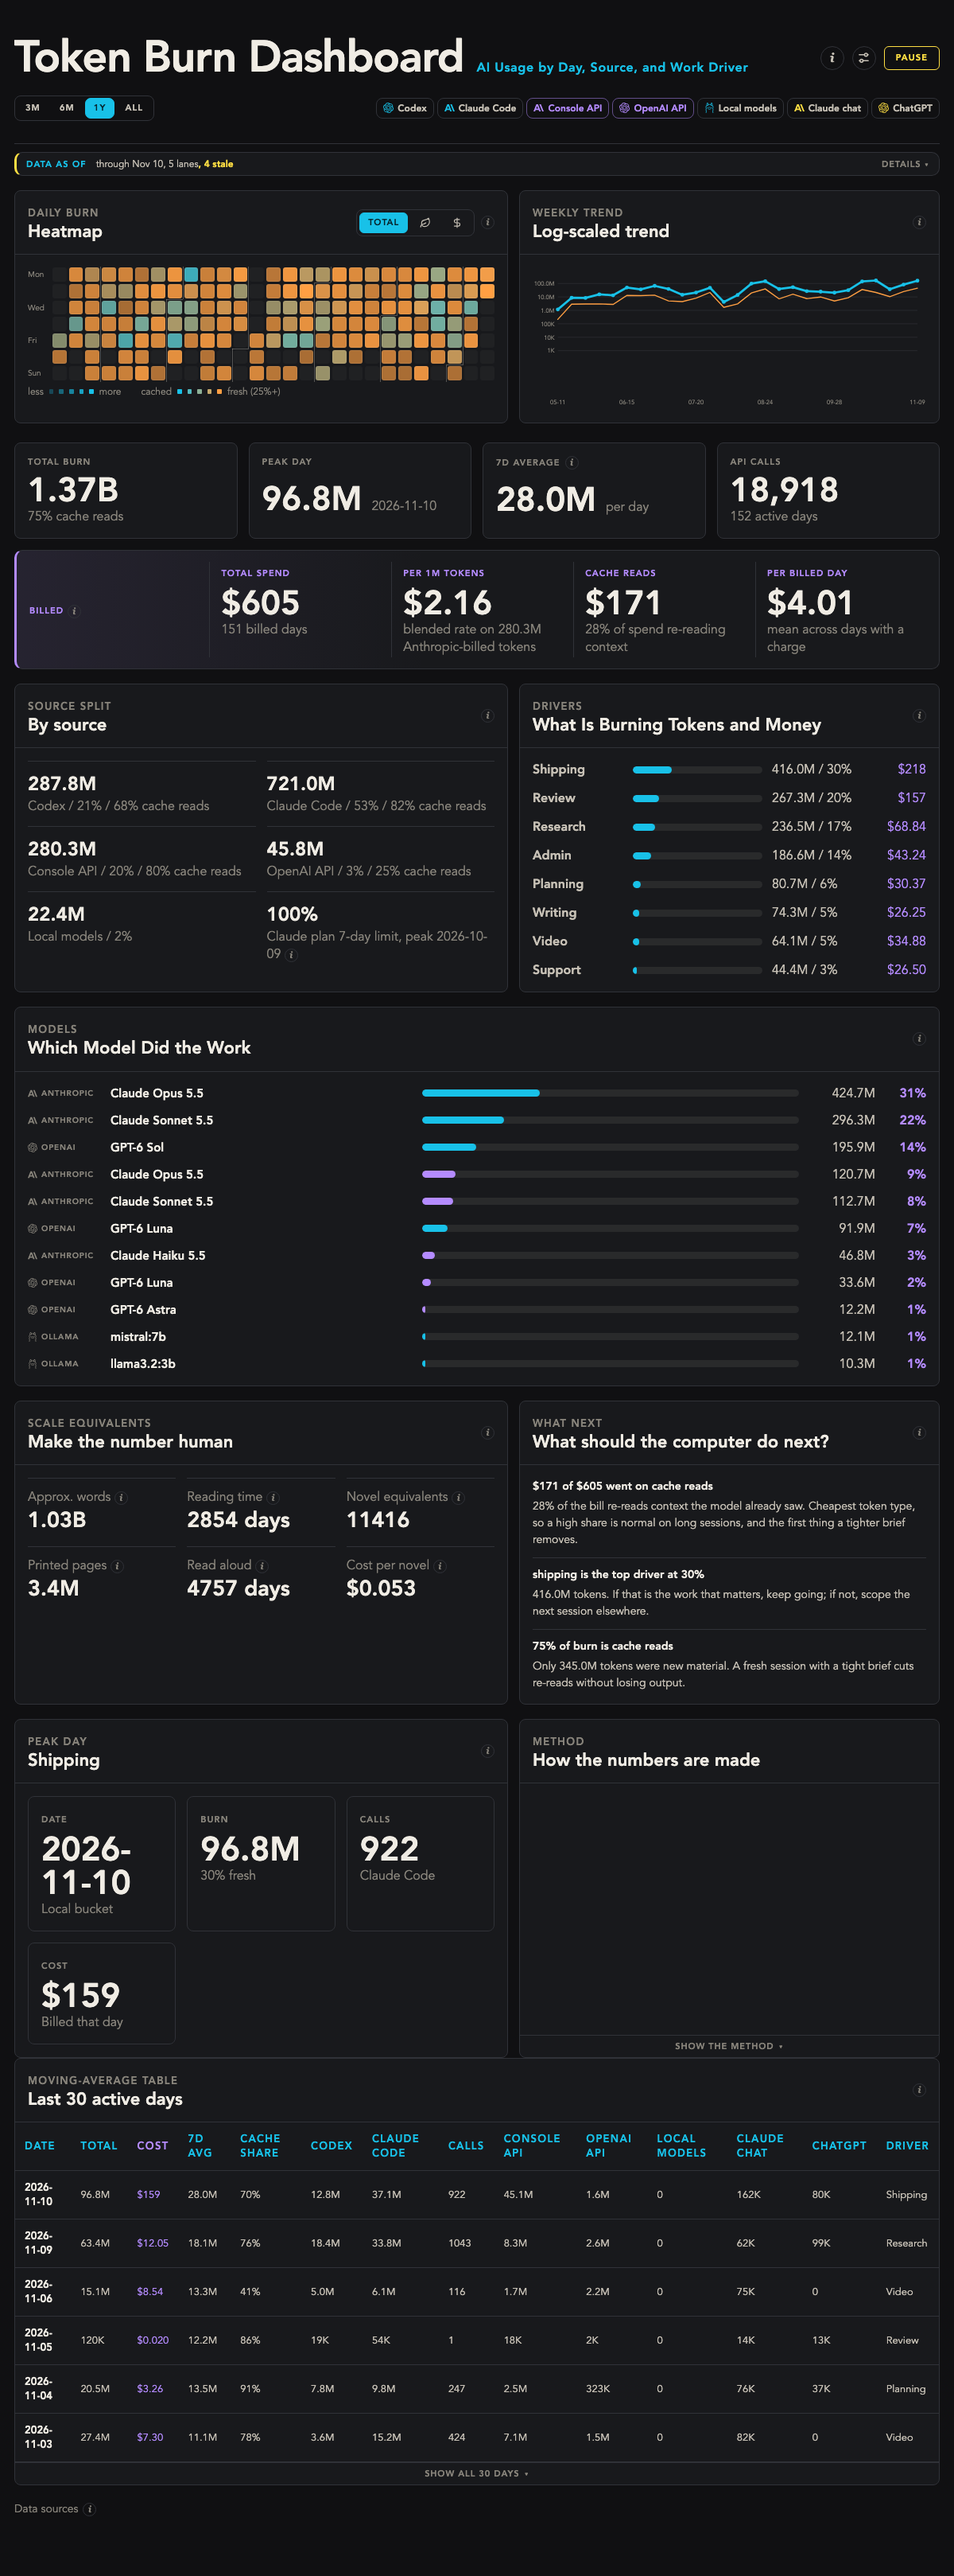
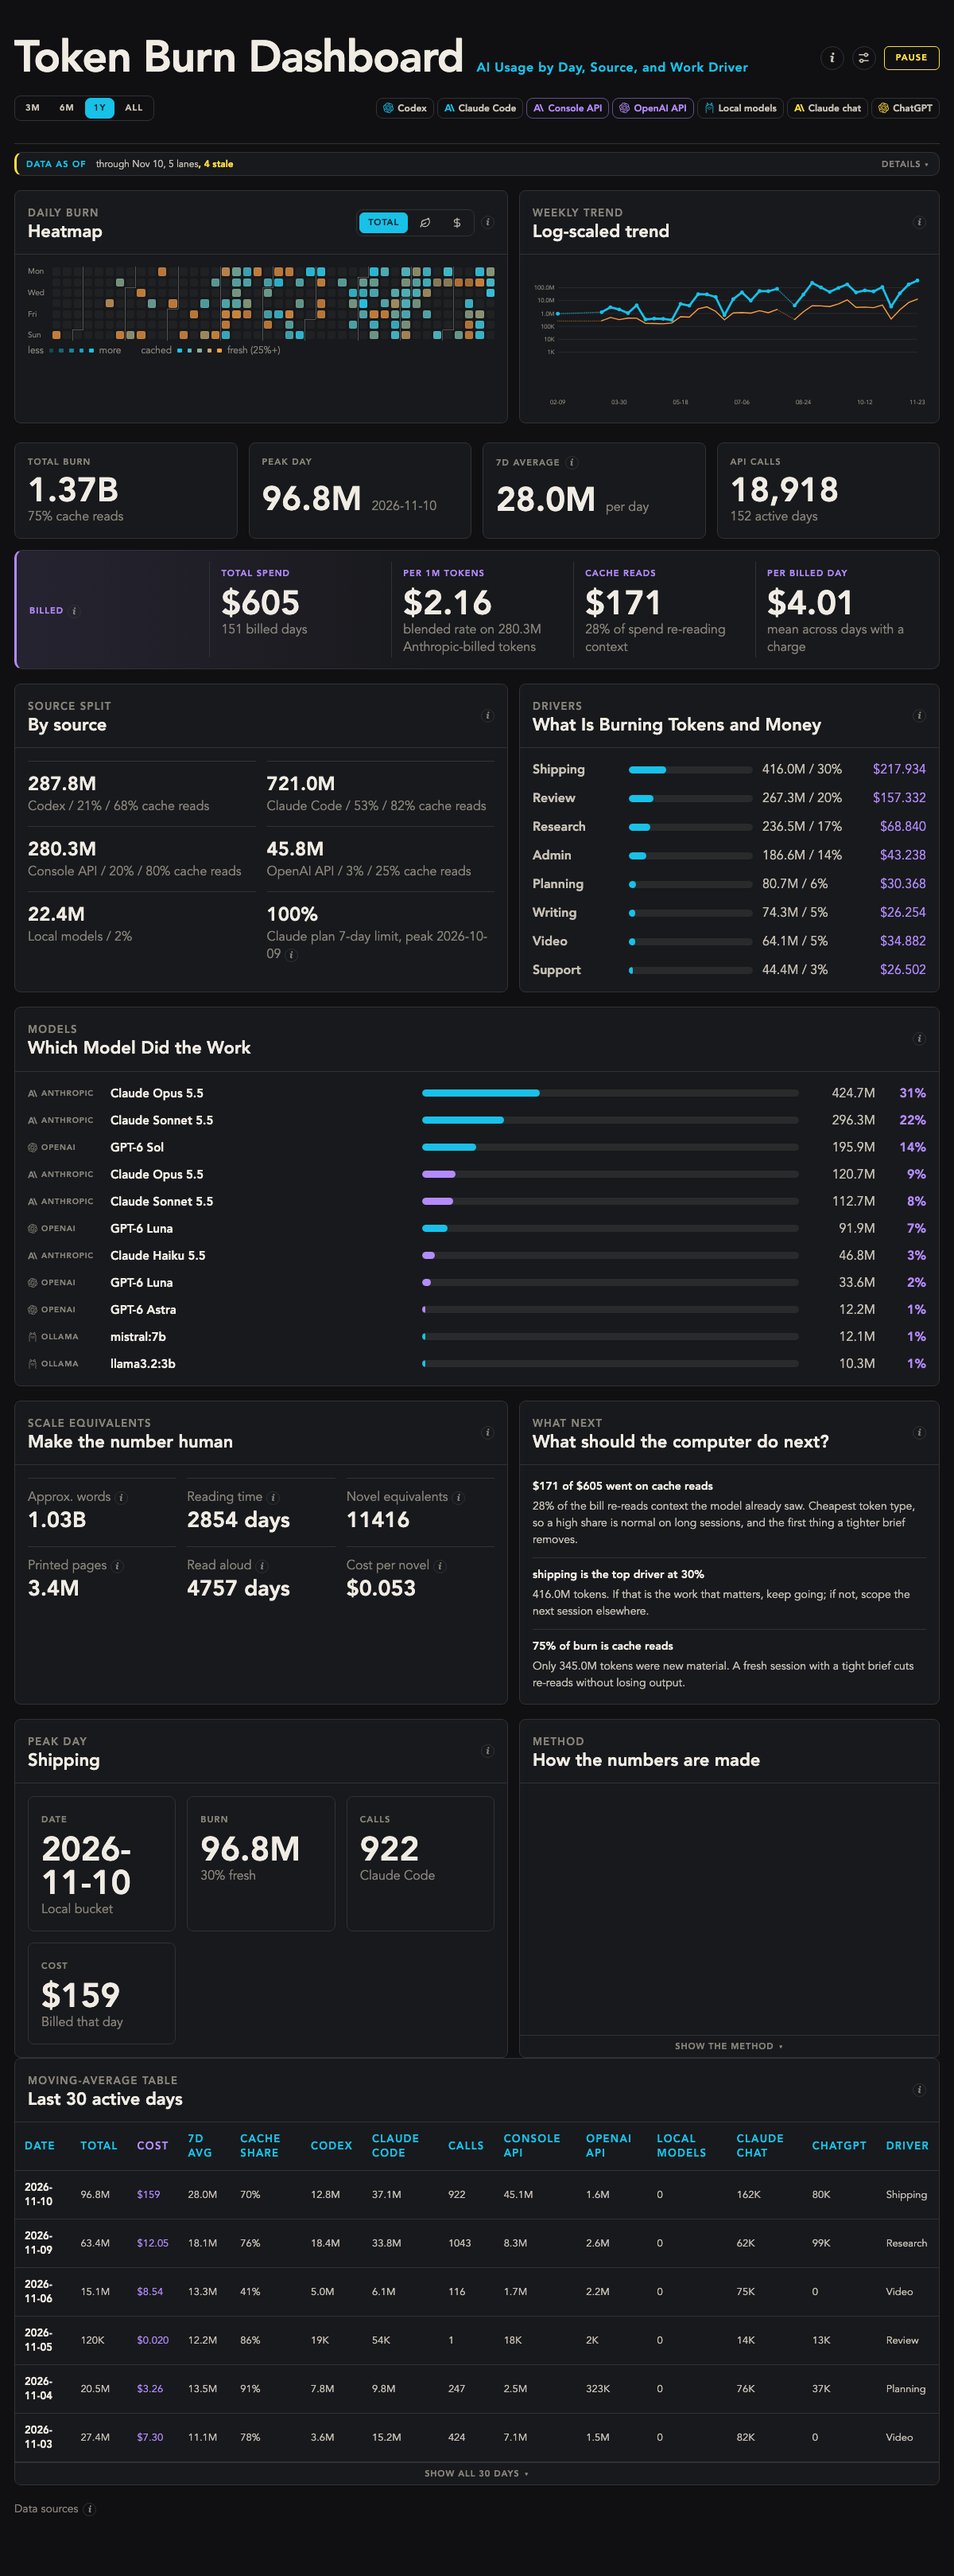
Drivers cost to 3 decimals; preview charts from scaled real history
- Drivers panel: every row's cost shows exactly 3 decimals ($0.000 when a
  driver has no billed cost), so the column lines up digit for digit.
- Desktop preview: the heatmap and weekly trend show the author's real usage
  scaled by 1.16; every other panel still shows the fictional sample. No real
  data is committed.

diff --git a/dashboard/app/_components/breakdowns.tsx b/dashboard/app/_components/breakdowns.tsx
@@ -14,7 +14,7 @@ import {
   titleCase,
 } from "../../lib/burn-data";
 import { driverTotals } from "../../lib/insights";
-import { formatPercent, formatTokens, formatUsd } from "../../lib/token-math";
+import { formatPercent, formatTokens, formatUsdFixed } from "../../lib/token-math";
 import { InfoTip } from "./info-tip";
 import { ExpandRow, Panel, PanelHeader, VendorMark } from "./panel";
 
@@ -89,7 +89,7 @@ export function DriversPanel({ rows, showCost }: { rows: BurnRow[]; showCost: bo
             <span className="driverValue">
               {formatTokens(driver.value)} / {driver.share}%
             </span>
-            {showCost && <span className="driverCost">{driver.cost > 0 ? formatUsd(driver.cost) : "—"}</span>}
+            {showCost && <span className="driverCost">{formatUsdFixed(driver.cost)}</span>}
           </div>
         ))}
       </div>

diff --git a/dashboard/lib/token-math.ts b/dashboard/lib/token-math.ts
@@ -27,6 +27,12 @@ export function formatUsd(value: number) {
   return `$${value.toFixed(3)}`;
 }
 
+/** Dollars at a fixed precision, for columns that should line up digit for digit. */
+export function formatUsdFixed(value: number, digits = 3) {
+  if (!Number.isFinite(value)) value = 0;
+  return `${value < 0 ? "-" : ""}$${Math.abs(value).toLocaleString("en-US", { minimumFractionDigits: digits, maximumFractionDigits: digits })}`;
+}
+
 /** Blended rate for the window. The single number that makes caching legible. */
 export function costPerMillion(usd: number, tokens: number) {
   if (!tokens) return 0;

diff --git a/dashboard/app/globals.css b/dashboard/app/globals.css
@@ -1370,7 +1370,7 @@ h1 {
 
 /* ---- drivers with a money column ---- */
 .driverGrid.withCost .driver {
-  grid-template-columns: minmax(90px, 0.7fr) minmax(0, 1fr) 108px 74px;
+  grid-template-columns: minmax(90px, 0.7fr) minmax(0, 1fr) 108px 86px;
 }
 
 .driverCost {
